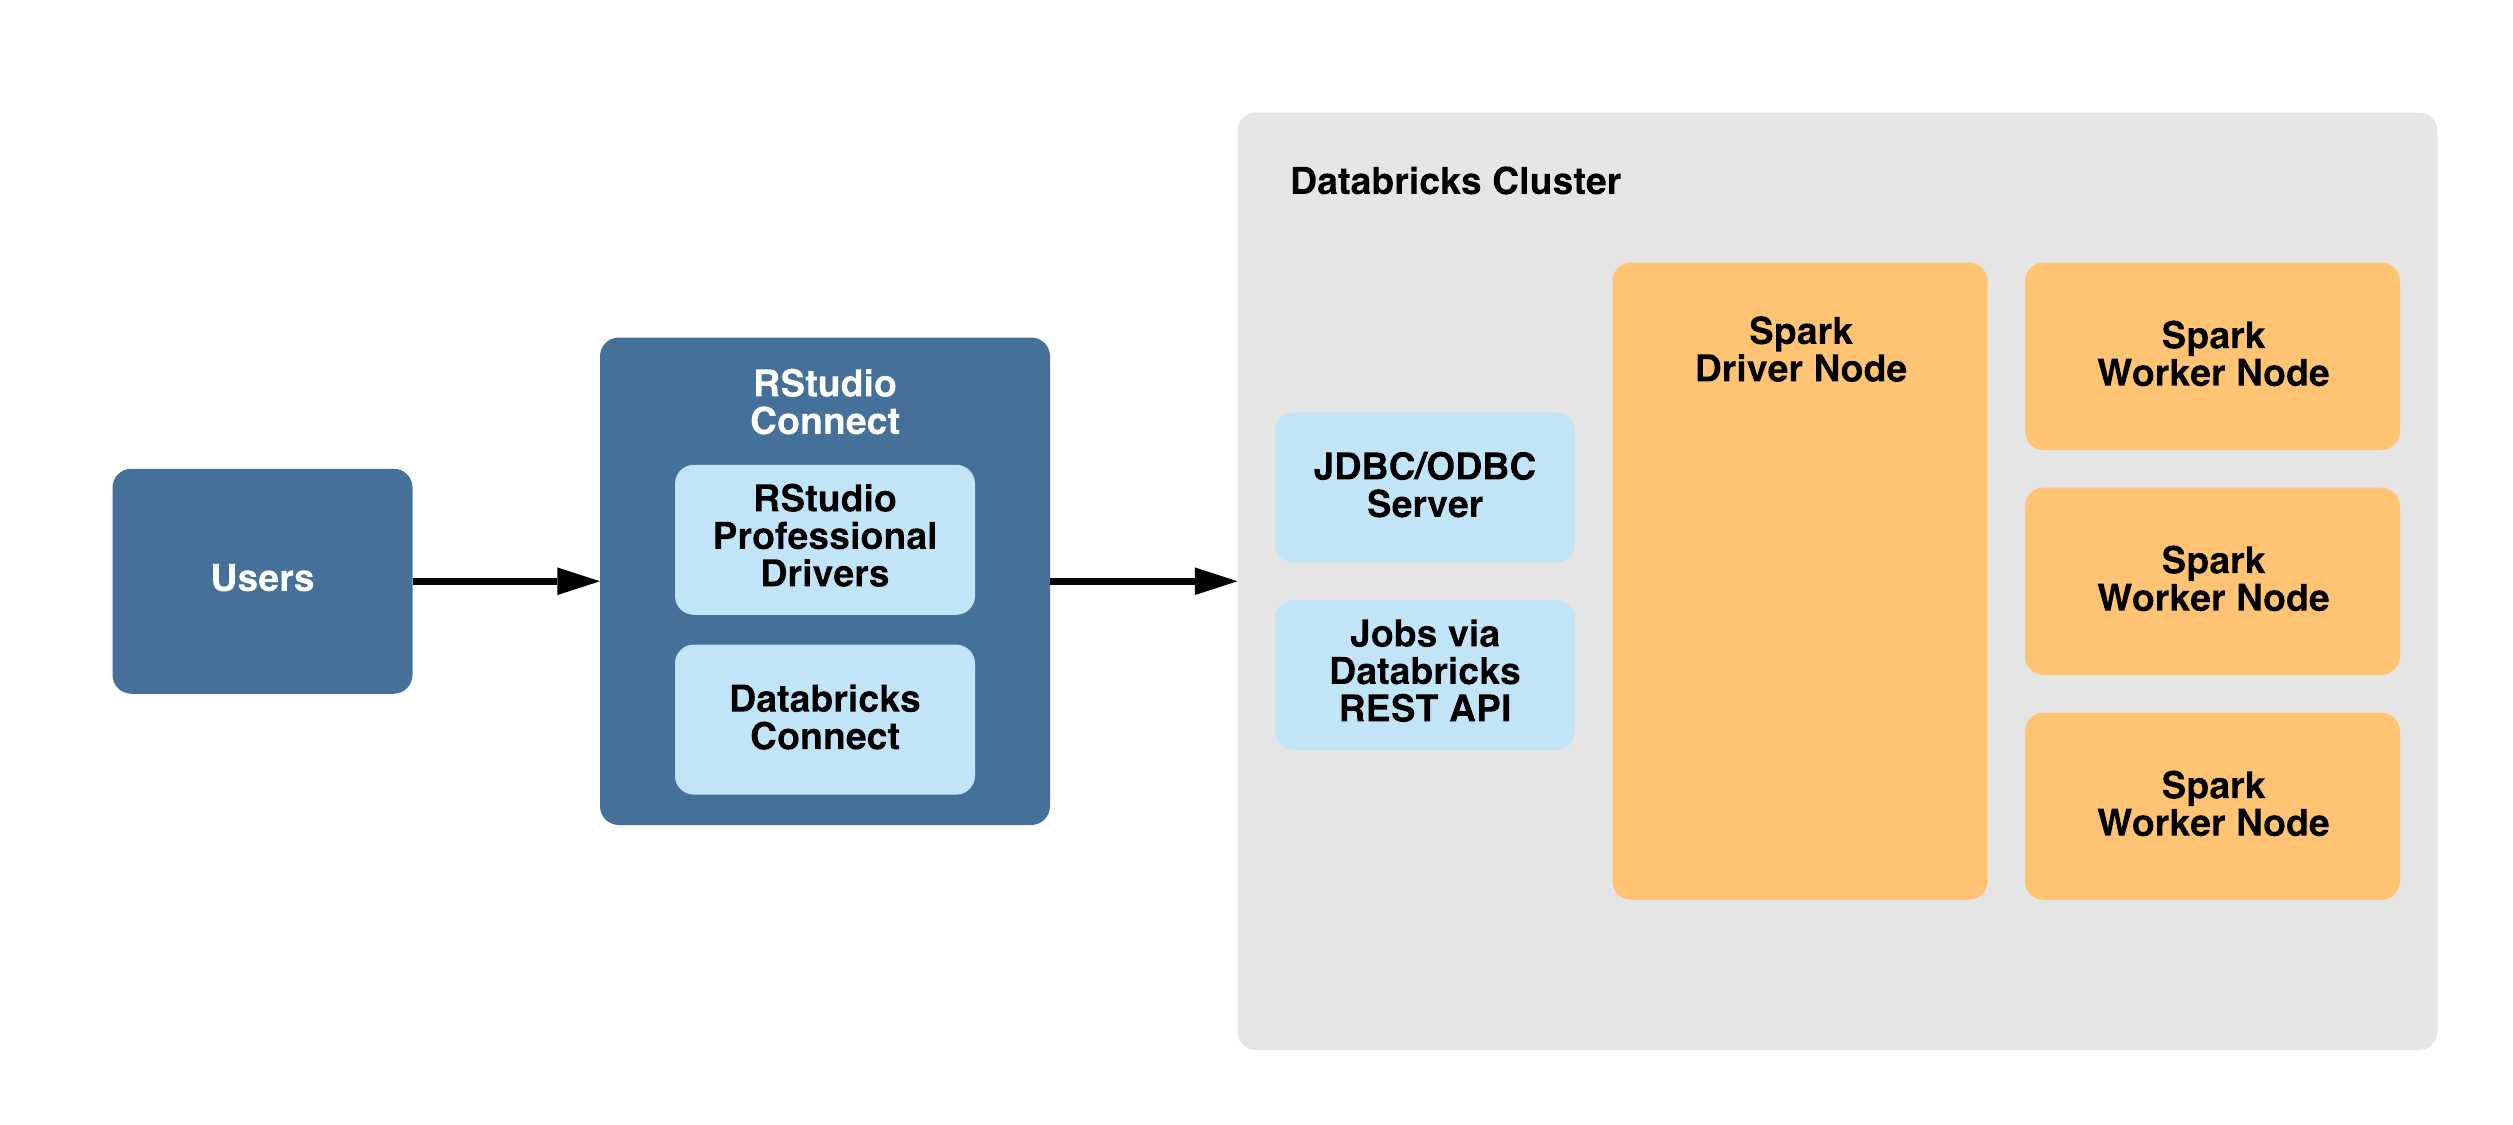
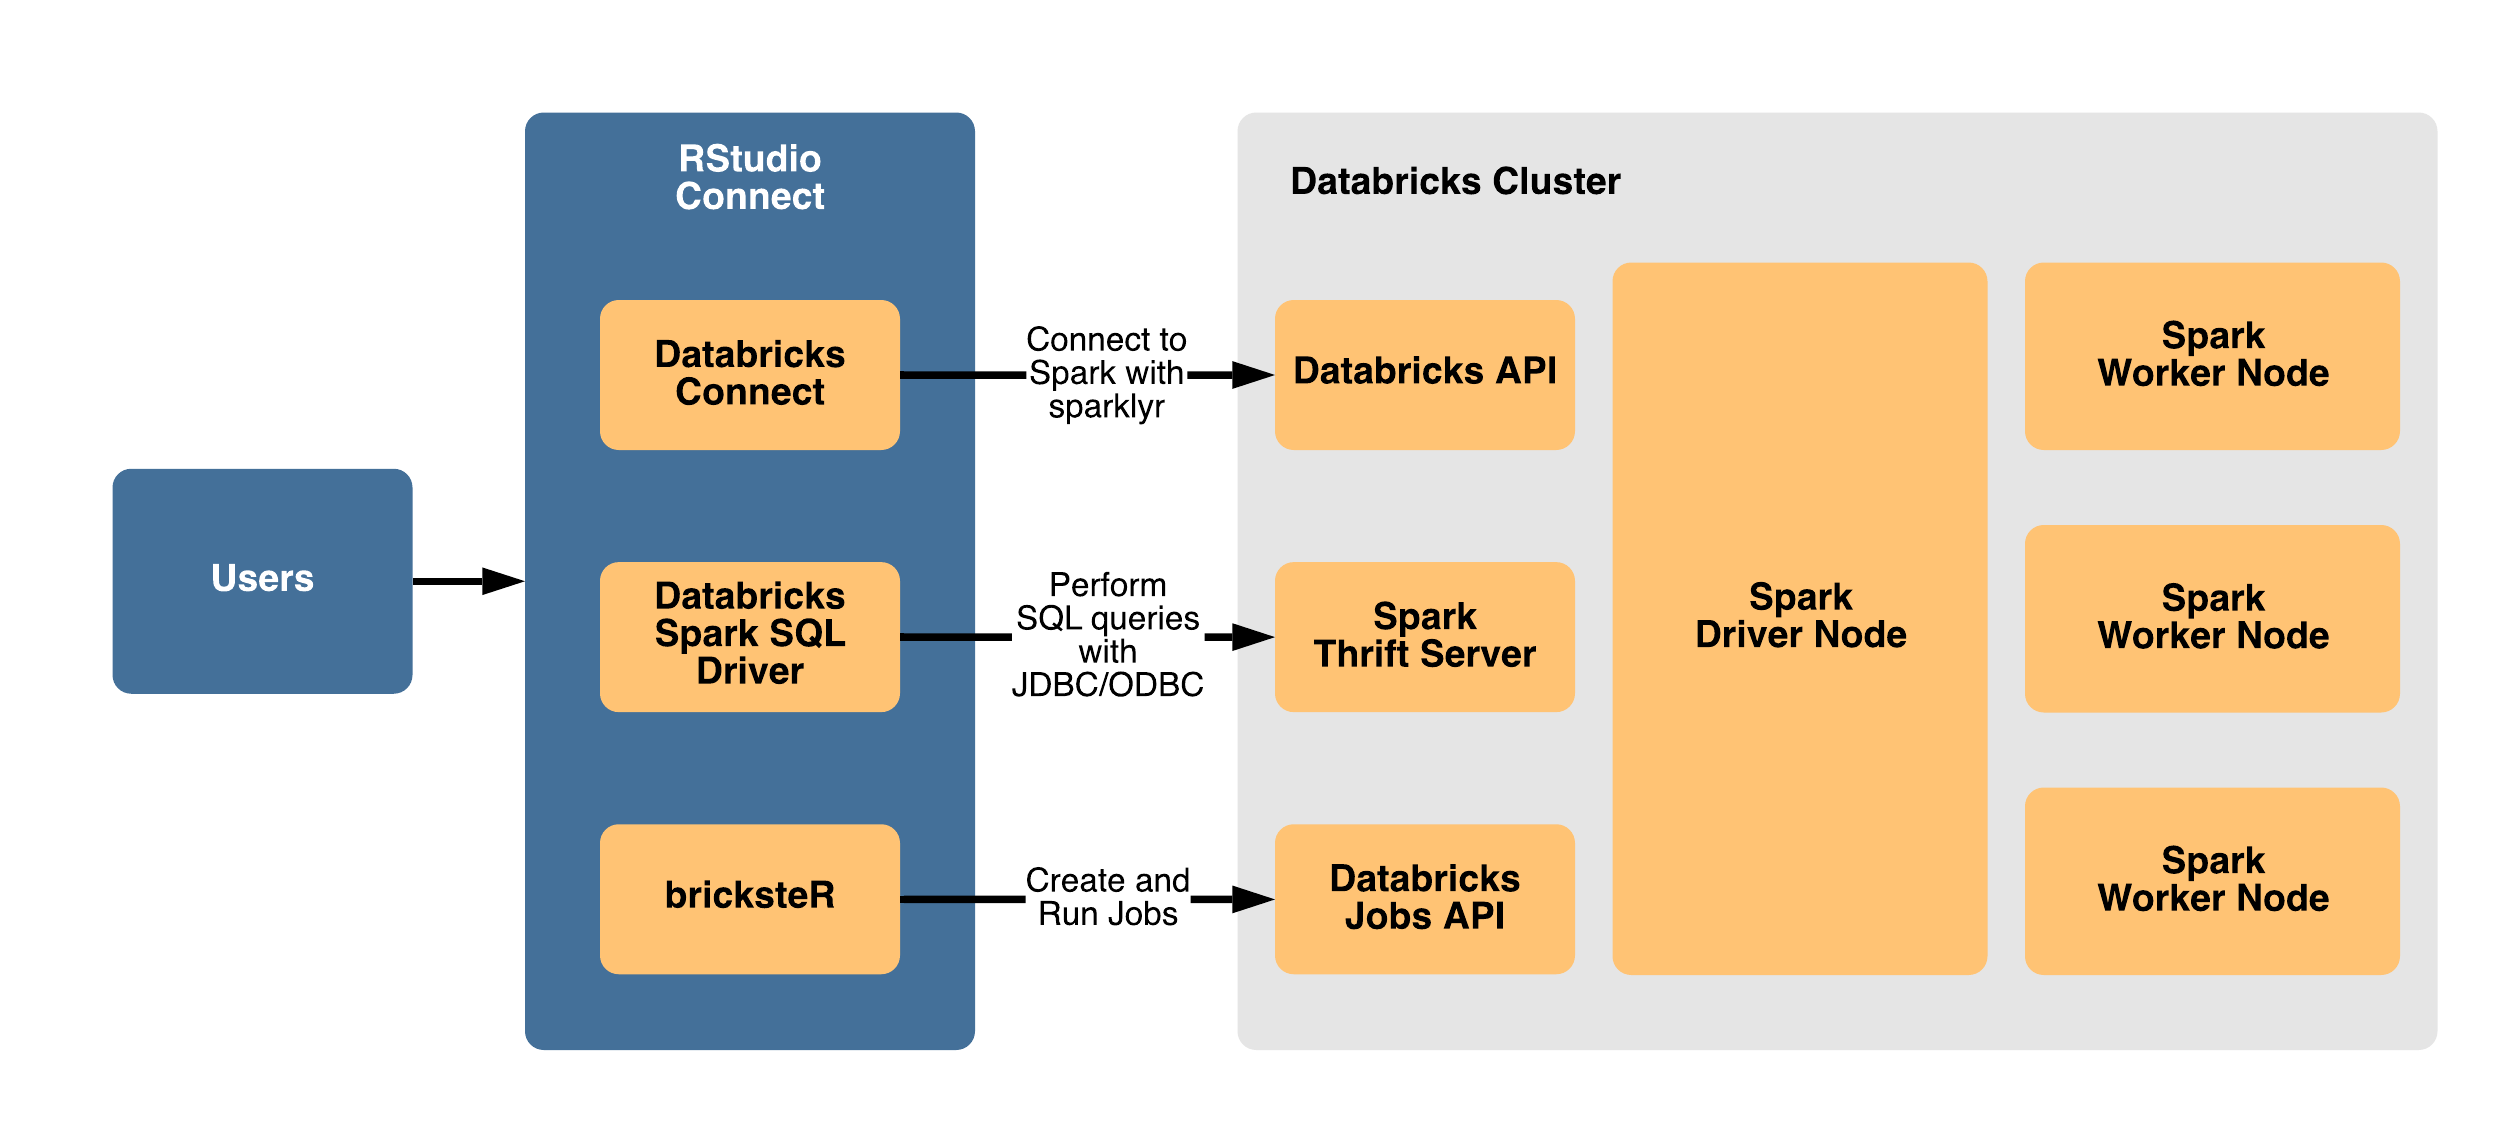
Update RSC options

Changed region(s): [[0.1862, 0.0933, 0.9622, 0.9333], [0.6828, 0.4978, 0.776, 0.5911]]

diff --git a/content/examples/databricks-cluster.html b/content/examples/databricks-cluster.html
@@ -3,7 +3,7 @@ title: "Using sparklyr with Databricks"
 output:
   html_document:
     toc: true
-    toc_depth: 2
+    toc_depth: 3
     toc_float:
       collapsed: false
 params:
@@ -29,9 +29,8 @@ resource in RStudio Server Pro, similar to how you would connect remotely to
 external databases, data sources, and storage systems. This can be
 accomplished using Databricks Connect as described in the
 <a href="#option-1---connecting-to-databricks-remotely">Connecting to Databricks remotely</a>
-section below, the
-<a href="https://docs.rstudio.com/pro-drivers/">RStudio Professional Drivers</a> for Hive
-and Impala, or the JDBC/ODBC server in Databricks on
+section below or by performing SQL queries with JDBC/ODBC using the Databricks
+Spark SQL Driver on
 <a href="https://docs.databricks.com/integrations/bi/jdbc-odbc-bi.html">AWS</a> or
 <a href="https://docs.microsoft.com/en-us/azure/databricks/integrations/bi/jdbc-odbc-bi">Azure</a>.</li>
 <li><strong>Restrict workloads to interactive analysis</strong> - Only perform workloads
@@ -59,7 +58,7 @@ Databricks:</p>
 <div id="option-1---connecting-to-databricks-remotely" class="section level3">
 <h3>Option 1 - Connecting to Databricks remotely</h3>
 <p>With this configuration, RStudio Server Pro is installed outside of the Spark
-cluster and allows users to connect to Spark remotely using
+cluster and allows users to connect to Spark remotely using <code>sparklyr</code> with
 <a href="https://docs.databricks.com/dev-tools/databricks-connect.html">Databricks Connect</a>.</p>
 <p>This is the recommended configuration because it targets separate environments,
 involves simpler configuration, avoids resource contention, and allows RStudio
@@ -80,7 +79,7 @@ View steps for connecting to Databricks remotely
 the Driver node of a long-running, persistent Databricks cluster as opposed to a
 worker node or an ephemeral cluster.</p>
 <p>With this configuration, RStudio Server Pro is installed on the Spark driver
-node and allows users to work locally with Spark.</p>
+node and allows users to connect to Spark locally using <code>sparklyr</code>.</p>
 <p>This configuration can result in increased complexity, limited connectivity to
 other storage and compute sources, resource contention between RStudio Server
 Pro and Databricks, and maintenance concerns due to the ephemeral nature of
@@ -102,19 +101,21 @@ support RStudio Connect or the process sandboxing mechanisms that it uses for
 published content.</p>
 <p>Therefore, the only supported configuration is to install RStudio Connect
 outside of the Databricks cluster and connect to Databricks remotely.</p>
+<p>Whether RStudio Server Pro is installed outside of the Databricks cluster
+(Recommended Option) or within the Databricks cluster (Alternative Option), you
+can publish content to RStudio Connect as long as HTTP/HTTPS network traffic is
+allowed from RStudio Server Pro to RStudio Connect.</p>
 <p>There are three options for using RStudio Connect with Databricks:</p>
 <ol style="list-style-type: decimal">
-<li>By accessing data via ODBC with the
-<a href="https://docs.rstudio.com/pro-drivers/">RStudio Professional Drivers</a> for
-Hive and Impala or the JDBC/ODBC server in Databricks on
-<a href="https://docs.databricks.com/integrations/bi/jdbc-odbc-bi.html">AWS</a> or
-<a href="https://docs.microsoft.com/en-us/azure/databricks/integrations/bi/jdbc-odbc-bi">Azure</a>
-(Recommended Option)</li>
-<li>By connecting to Databricks remotely using
+<li>Connecting to Databricks remotely and using <code>sparklyr</code> with
 <a href="https://docs.databricks.com/dev-tools/databricks-connect.html">Databricks Connect</a>
+(Recommended Option)</li>
+<li>Performing SQL queries with JDBC/ODBC using the Databricks Spark SQL Driver
+on <a href="https://docs.databricks.com/integrations/bi/jdbc-odbc-bi.html">AWS</a> or
+<a href="https://docs.microsoft.com/en-us/azure/databricks/integrations/bi/jdbc-odbc-bi">Azure</a>
 (Alternative Option)</li>
-<li>By adding calls in your R code to create and run Databricks jobs
-<a href="https://github.com/RafiKurlansik/bricksteR/">via the Databricks REST API</a>
+<li>Adding calls in your R code to create and run Databricks jobs
+<a href="https://github.com/RafiKurlansik/bricksteR/">via the Databricks Jobs API</a>
 (Alternative Option)</li>
 </ol>
 <p><img src="/images/deployment/databricks/rstudio-connect-databricks.png" width='800px' align='center'/></p>
